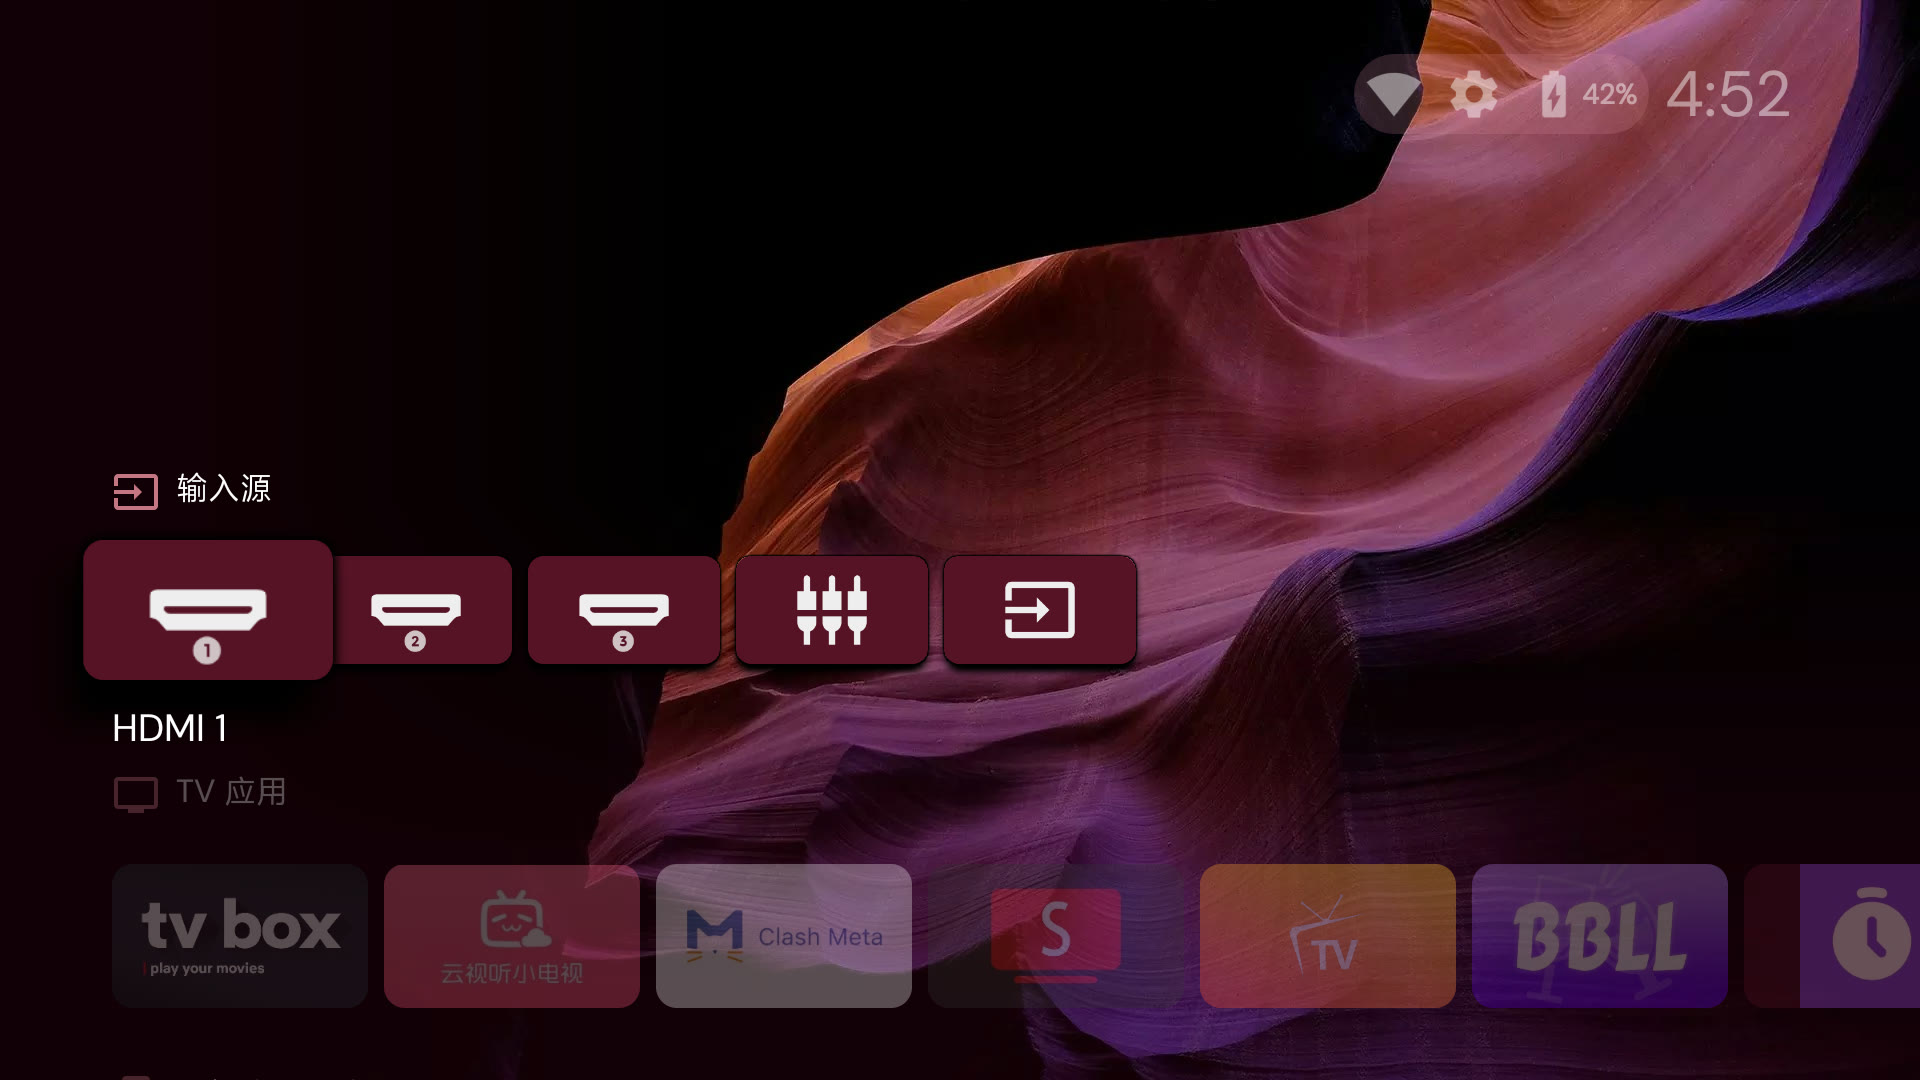
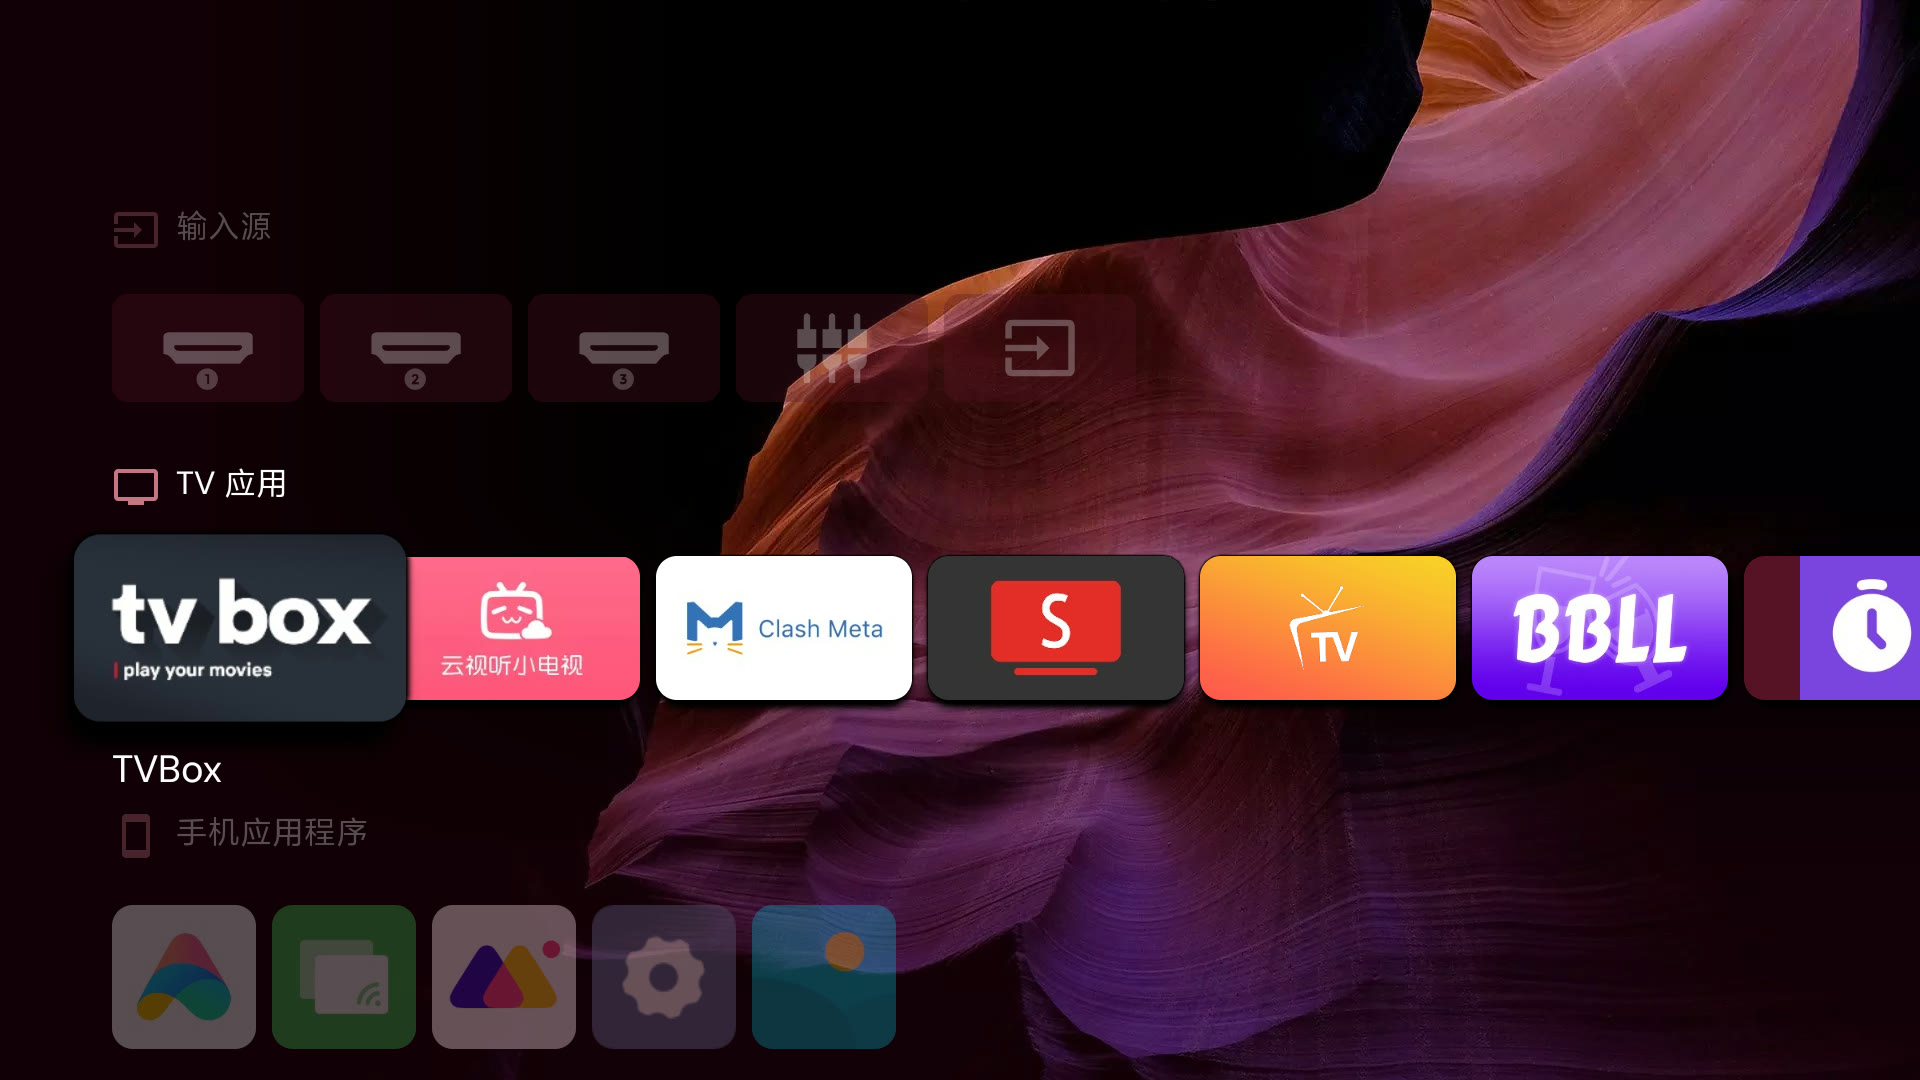
头图置顶(TVBox高亮实拍); 配置源换成社区接口清单(实测标注), 撤下含成人站排头的聚合源

diff --git a/README.md b/README.md
@@ -4,6 +4,8 @@
 > 免 root、全程可逆（所有操作都有对应还原命令）。
 > 原理：ADB 调试 + `pm uninstall --user 0`（只对当前用户卸载，系统分区不动，
 > `cmd package install-existing <包名>` 一条命令可还原）。
+![改造后的电视桌面（Projectivy Launcher + 无广告 + CMFA/SmartTube/影视仓全家桶）](docs/desktop-home.jpg)
+
 # 作为 Agent Skill 使用（推荐）
 
 本仓库同时是一个可安装的 agent 技能（含 `SKILL.md` + 分任务 reference + 一键脚本），
@@ -25,9 +27,7 @@ git clone https://github.com/wangrongding/mitv-flauncher-guide ~/.agents/skills/
 2. 换桌面：装 Projectivy Launcher，开机直达无广告，PatchWall 禁用但保留可恢复
 3. 装代理：Clash Meta(CMFA)，配置文件在 <你的配置路径/URL>，规则要国内直连、节点挂了不影响电视
 4. 装 YouTube 客户端 SmartTube
-5. 装影视仓 + OK影视(FongMi)，配置源用
-   https://fastly.jsdelivr.net/gh/hebijunge/tvbox-config@main/tvbox_recommended.json
-   装好后把默认站点切成常规站（第一个可能是成人站）
+5. 装影视仓 + OK影视(FongMi)，配置源用 http://肥猫.net/tv
 6. 清理预装：先给我编号清单我挑，别自作主张删
 电视 IP 是 192.168.1.4（不对就扫 5555 端口找）。
 删除/禁用系统包前列清单等我确认，全程用可逆操作并附恢复命令。
@@ -54,8 +54,6 @@ git clone https://github.com/wangrongding/mitv-flauncher-guide ~/.agents/skills/
 | 开机桌面 | PatchWall（瀑布流+广告）→ **FLauncher**（开源极简） |
 | HOME 键 | 始终回到 FLauncher |
 | 系统设置 | 不受影响（`com.xiaomi.mitv.settings`） |
-
-![改造后的电视桌面（Projectivy Launcher + 无广告 + CMFA/SmartTube/影视仓全家桶）](docs/desktop-home.jpg)
 
 ---
 
@@ -215,11 +213,14 @@ adb shell am start -a android.intent.action.VIEW \
 
 ## 三、影视仓 / OK影视(FongMi)：TVBox 配置的其它玩家
 
-- 配置源推荐 jsdelivr CDN 直达（免电脑、免代理、每日自动更新）：
-  `https://fastly.jsdelivr.net/gh/hebijunge/tvbox-config@main/tvbox_recommended.json`
-  （GitHub Actions 每日聚合 1630 站 + 571 直播 + 健康检查）
+- 常用接口源（社区维护，时活时死，装前先 `curl -A 'okhttp/3.15' <url>` 验证返回 JSON 且含 sites）：
+
+  | 接口 | 实测(2026-10) |
+  |---|---|
+  | `http://肥猫.net/tv` | ✅ 可用(40站) |
+  | `http://www.饭太硬.net/tv` | ⚠ 返回图片页,非直连配置 |
+  | `http://fty.xxooo.cf/tv` / `http://我不是.摸鱼儿.top` | ❌ 失效中 |
 - 影视仓：瀑布流内容墙（翻着看）；FongMi：搜索型（搜着看）；各有所长
-- ⚠ 聚合配置**第一个站点可能是成人站**（排序随机），装好先按菜单键换默认站点
 - 饭太硬接口死因诊断样本：域名被 DNS 污染解析到 Facebook IP 段（157.240.x.x）
 
 ## 四、批量清理预装 & 权限修复

diff --git a/references/streaming-apps.md b/references/streaming-apps.md
@@ -11,11 +11,13 @@
 ## 推荐配置源（免电脑免代理，每日自动更新）
 
 ```
-https://fastly.jsdelivr.net/gh/hebijunge/tvbox-config@main/tvbox_recommended.json
+http://肥猫.net/tv          # 实测可用(40站)
+http://www.饭太硬.net/tv     # 返回图片页,非直连配置
+http://fty.xxooo.cf/tv      # 备用,时活时死
+http://我不是.摸鱼儿.top     # 备用,时活时死
 ```
 
-（GitHub Actions 每日聚合 1630 站 + 571 直播 + 健康检查；jsdelivr 国内直连）
-验证配置有效性：JSON 含 `sites[]` 且数量 > 100。
+接口是社区维护的，时活时死。装前先验证：`curl -sL -A 'okhttp/3.15' <url>` 返回 JSON 且含 `sites[]` 才算活。
 
 ## 配置注入流程（以影视仓为例，全家族通用）
 
@@ -30,7 +32,7 @@ https://fastly.jsdelivr.net/gh/hebijunge/tvbox-config@main/tvbox_recommended.jso
 
 | 坑 | 解法 |
 |---|---|
-| **聚合配置第一个站可能是成人站** | 装好后立刻按**遥控器菜单键**(keyevent 82)呼出"选择首页数据源"，切常规站（如"无广┃[采集]"） |
+| 部分聚合源**首个站点可能是成人站** | 装好后立刻按**遥控器菜单键**(keyevent 82)呼出"选择首页数据源"，切常规站 |
 | `pm clear` 后"确定"按不动 | 存储权限丢了：`pm grant <pkg> android.permission.READ_EXTERNAL_STORAGE` + WRITE |
 | 饭太硬等接口域名失效 | 先诊断：`getent hosts www.饭太硬.com` 若解析到 157.240.x.x（Facebook 段）= DNS 污染，换源别硬等 |
 | 想给 mytv 等直播 App 喂源 | 配置里的 `lives` 段可导出为 txt/m3u 单独用 |
